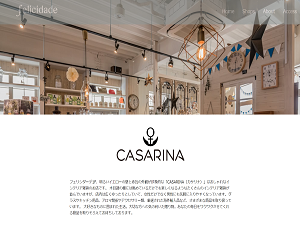
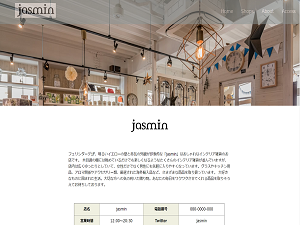
リンク追加

diff --git a/index.html b/index.html
@@ -38,10 +38,10 @@
             
             <ul class="header-top">
               <!-- fa-spin kaitenn -->
-              <li><i class="fab fa-twitter fa-.5x fa-spin"></i></li>
-              <li><i class="fab fa-instagram fa-.5x fa-spin"></i></li>
-              <li><i class="fab fa-github fa-.5x fa-spin"></i></li>
-              <li><i class="fab fa-wordpress fa-.5x fa-spin"></i></li>
+              <li><a href="https://twitter.com/swan2pink?s=09 " target="_blank"><i class="fab fa-twitter fa-.5x fa-spin"></i></a></li>
+              <li><a href="https://www.instagram.com/tomarbook888" target="_blank"><i class="fab fa-instagram fa-.5x fa-spin"></i></a></li>
+              <li><a href="https://github.com/timome-freework" target="_blank"><i class="fab fa-github fa-.5x fa-spin"></i></a></li>
+              <li><a href="" target="_blank"><i class="fab fa-wordpress fa-.5x fa-spin"></i></a></li>
             </ul>
             <p id="q7-btn" class="js-hamburger hamburger">
               <span></span>
@@ -89,23 +89,23 @@
       <ul class="section2-ul">
         <li class="section2-li">
           <a href="./assets/img/portfolio.png" data-lightbox="image-1" data-title="My caption"><img src="./assets/img/portfolio.png" alt="" class="list-img"></a>
-          <p class="section2-p">airbnb</p>
+          <p class="section2-p"><a href="https://timome-freework.github.io/airbnb/" target="_blank">jasmin</a></p>
         </li>
         <li class="section2-li">
           <a href="./assets/img/casarina.png" data-lightbox="image-1" data-title="My caption"><img src="./assets/img/casarina.png" alt="" class="list-img"></a>
-          <p class="section2-p">casarina</p>
+          <p class="section2-p"><a href="https://timome-freework.github.io/casarina/" target="_blank">jasmin2</a></p>
         </li>
         <li class="section2-li">
           <a href="./assets/img/myportfolio.png" data-lightbox="image-1" data-title="My caption"><img src="./assets/img/myportfolio.png" alt="" class="list-img"></a>
-          <p class="section2-p">Lovelist</p>
+          <p class="section2-p"><a href="https://timome-freework.github.io/myport/" target="_blank">Lovelist</a></p>
         </li>
         <li class="section2-li">
           <a href="./assets/img/section1.jpg" data-lightbox="image-1" data-title="My caption"><img src="./assets/img/section1.jpg" alt="" class="list-img"></a>
-          <p class="section2-p">airbnb</p>
+          <p class="section2-p"><a href="" target="_blank">jasmin3</a></p>
         </li>
         <li class="section2-li">
           <a href="./assets/img/section1.jpg" data-lightbox="image-1" data-title="My caption"><img src="./assets/img/section1.jpg" alt="" class="list-img"></a>
-          <p class="section2-p">airbnb</p>
+          <p class="section2-p"><a href="" target="_blank">jasmin4</a></p>
         </li>
       </ul>
     </nav>
@@ -198,10 +198,10 @@
         <li class="footer-li">temma.t1745@gmail.com</li>
       </ul>
       <ul class="icon">
-        <li><i class="fab fa-twitter fa-.3x "></i></li>
-        <li><i class="fab fa-instagram fa-.3x "></i></li>
-        <li><i class="fab fa-github fa-.3x "></i></li>
-        <li><i class="fab fa-wordpress fa-.3x "></i></li>
+        <li><a href="https://twitter.com/swan2pink?s=09 " target="_blank"><i class="fab fa-twitter fa-.3x"></i></a></li>
+        <li><a href="https://www.instagram.com/tomarbook888" target="_blank"><i class="fab fa-instagram fa-.3x"></i></a></li>
+        <li><a href="https://github.com/timome-freework" target="_blank"><i class="fab fa-github fa-.3x"></i></a></li>
+        <li><a href="" target="_blank"><i class="fab fa-wordpress fa-.3x"></i></a></li>
       </ul>
     </div>
     <p class="footer-icon" id="q9-btn"><i class="fas fa-plane fa-rotate-270 fa-2x fly"></i><br>Topへ戻る</p>
@@ -215,3 +215,5 @@
   <script src="./assets/js/app.js"></script>
 </body>
 </html>
+
+              

diff --git a/assets/css/style.css b/assets/css/style.css
@@ -367,8 +367,9 @@ ul {
 .list-img {
   border: 1px solid black;
 } 
-.section2-p {
+.section2-p > a {
   font-size: 2em;
+  color: black;
 }
 
 /* --------------about--------section3 */
